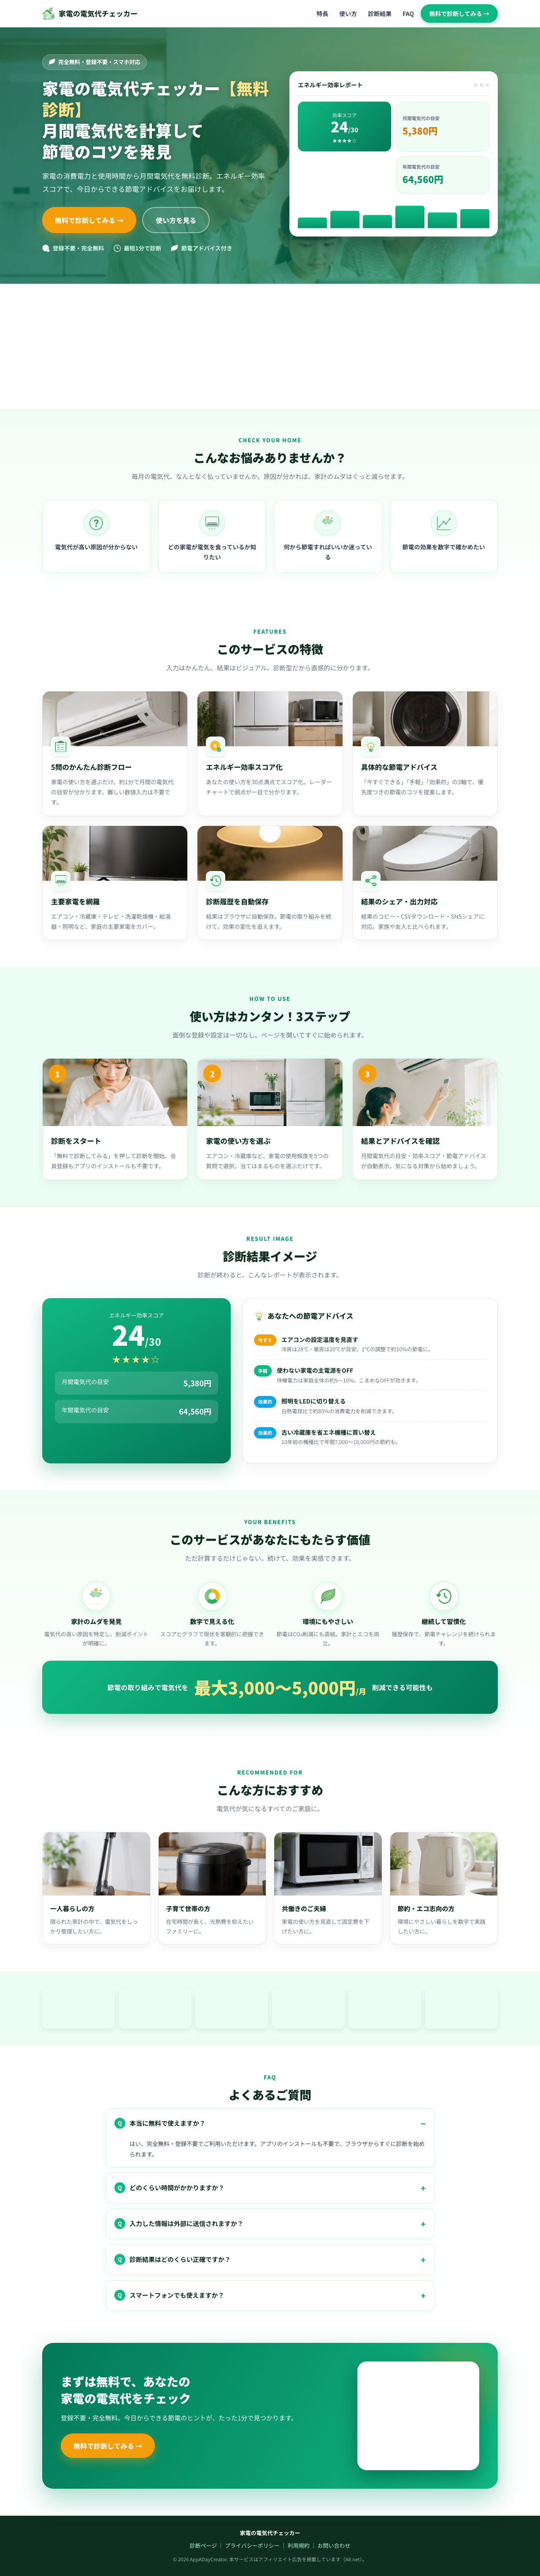
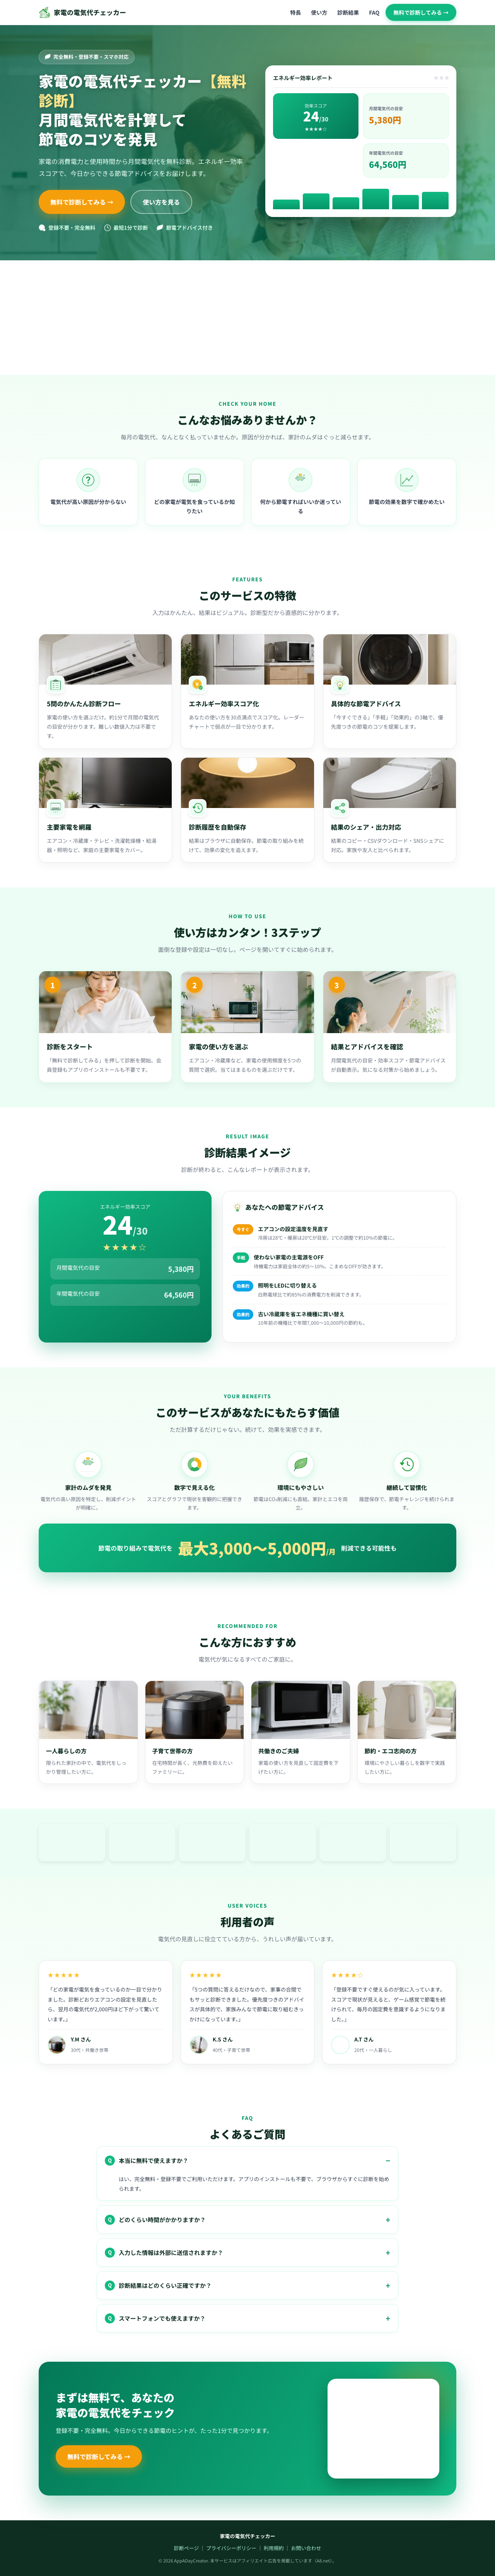
Rollback: step7 pass1 regressed (58->28)

diff --git a/index.html b/index.html
@@ -158,16 +158,6 @@ j=d.createElement(s),dl=l!="dataLayer"?"&l="+l:"";j.async=true;j.src=
         .art img{width:74px;height:60px;object-fit:cover;border-radius:8px;flex-shrink:0;}
         .art b{font-size:14px;color:var(--ink);display:block;margin-bottom:3px;}
         .art span{font-size:12px;color:var(--muted);}
-        /* voices / testimonials */
-        .voice-grid{display:grid;grid-template-columns:repeat(3,1fr);gap:20px;}
-        .voice{background:#fff;border:1px solid var(--line);border-radius:18px;padding:24px 22px;box-shadow:0 8px 24px rgba(0,0,0,.05);display:flex;flex-direction:column;gap:12px;}
-        .voice .stars{color:#fbbf24;font-size:15px;letter-spacing:2px;}
-        .voice .txt{font-size:13.5px;color:var(--text);line-height:1.9;flex:1;}
-        .voice .who{display:flex;align-items:center;gap:12px;border-top:1px dashed var(--line);padding-top:14px;}
-        .voice .who img{width:48px;height:48px;border-radius:50%;object-fit:cover;flex-shrink:0;border:2px solid var(--line2);}
-        .voice .who b{font-size:13.5px;color:var(--ink);display:block;}
-        .voice .who span{font-size:12px;color:var(--muted);}
-        @media(max-width:820px){.voice-grid{grid-template-columns:1fr;}}
         /* faq visual */
         details.q{background:#fff;border:1px solid var(--line2);border-radius:13px;margin-bottom:10px;padding:0 18px;}
         details.q summary{list-style:none;cursor:pointer;font-weight:700;color:var(--ink);font-size:14.5px;padding:16px 0;display:flex;align-items:center;gap:10px;}
@@ -427,32 +417,6 @@ j=d.createElement(s),dl=l!="dataLayer"?"&l="+l:"";j.async=true;j.src=
           </div>
         </div>
       </div>
-
-      <!-- ── 利用者の声 ── -->
-      <section class="block" id="voices">
-        <div class="wrap">
-          <span class="eyebrow">USER VOICES</span>
-          <h2 class="sec-title">利用者の声</h2>
-          <p class="sec-lead">電気代の見直しに役立てている方から、うれしい声が届いています。</p>
-          <div class="voice-grid">
-            <div class="voice">
-              <div class="stars" aria-label="5段階評価で5">★★★★★</div>
-              <p class="txt">「どの家電が電気を食っているのか一目で分かりました。診断どおりエアコンの設定を見直したら、翌月の電気代が2,000円ほど下がって驚いています。」</p>
-              <div class="who"><img src="assets/photos/photo_14.jpg" alt="利用者" loading="lazy"><div><b>Y.M さん</b><span>30代・共働き世帯</span></div></div>
-            </div>
-            <div class="voice">
-              <div class="stars" aria-label="5段階評価で5">★★★★★</div>
-              <p class="txt">「5つの質問に答えるだけなので、家事の合間でもサッと診断できました。優先度つきのアドバイスが具体的で、家族みんなで節電に取り組むきっかけになっています。」</p>
-              <div class="who"><img src="assets/photos/photo_13.jpg" alt="利用者" loading="lazy"><div><b>K.S さん</b><span>40代・子育て世帯</span></div></div>
-            </div>
-            <div class="voice">
-              <div class="stars" aria-label="5段階評価で4">★★★★☆</div>
-              <p class="txt">「登録不要ですぐ使えるのが気に入っています。スコアで現状が見えると、ゲーム感覚で節電を続けられて、毎月の固定費を意識するようになりました。」</p>
-              <div class="who"><img src="assets/photos/photo_06.jpg" alt="利用者" loading="lazy"><div><b>A.T さん</b><span>20代・一人暮らし</span></div></div>
-            </div>
-          </div>
-        </div>
-      </section>
 
       <!-- ── FAQ ── -->
       <section class="block bg-soft" id="faq">

diff --git a/lp/index.html b/lp/index.html
@@ -194,16 +194,6 @@ j=d.createElement(s),dl=l!="dataLayer"?"&l="+l:"";j.async=true;j.src=
             section{padding:48px 0;}
             .gallery{grid-template-columns:repeat(3,1fr);}
         }
-        /* voices / testimonials */
-        .voice-grid{display:grid;grid-template-columns:repeat(3,1fr);gap:20px;}
-        .voice{background:#fff;border:1px solid var(--line);border-radius:18px;padding:24px 22px;box-shadow:0 8px 24px rgba(0,0,0,.05);display:flex;flex-direction:column;gap:12px;}
-        .voice .stars{color:#fbbf24;font-size:15px;letter-spacing:2px;}
-        .voice .txt{font-size:13.5px;color:var(--text);line-height:1.9;flex:1;}
-        .voice .who{display:flex;align-items:center;gap:12px;border-top:1px dashed var(--line);padding-top:14px;}
-        .voice .who img{width:48px;height:48px;border-radius:50%;object-fit:cover;flex-shrink:0;border:2px solid var(--line2);}
-        .voice .who b{font-size:13.5px;color:var(--ink);display:block;}
-        .voice .who span{font-size:12px;color:var(--muted);}
-        @media(max-width:860px){.voice-grid{grid-template-columns:1fr;}}
         footer{background:#0f2e22;color:#cdeadd;text-align:center;padding:30px 20px;font-size:13px;}
         footer a{color:#a7f3d0;text-decoration:none;}
         .ad-slot{margin:8px auto;max-width:1120px;padding:0 20px;}
@@ -376,32 +366,6 @@ j=d.createElement(s),dl=l!="dataLayer"?"&l="+l:"";j.async=true;j.src=
                 <img src="../assets/photos/photo_20.jpg" alt="暮らしのシーン" loading="lazy">
                 <img src="../assets/photos/photo_21.jpg" alt="暮らしのシーン" loading="lazy">
                 <img src="../assets/photos/photo_22.jpg" alt="暮らしのシーン" loading="lazy">
-            </div>
-        </div>
-    </section>
-
-    <!-- ── 利用者の声 ── -->
-    <section class="bg-soft">
-        <div class="wrap">
-            <span class="eyebrow">USER VOICES</span>
-            <h2 class="sec-title">利用者の声</h2>
-            <p class="sec-lead">電気代の見直しに役立てている方から、うれしい声が届いています。</p>
-            <div class="voice-grid">
-                <div class="voice">
-                    <div class="stars" aria-label="5段階評価で5">★★★★★</div>
-                    <p class="txt">「どの家電が電気を食っているのか一目で分かりました。診断どおりエアコンの設定を見直したら、翌月の電気代が2,000円ほど下がって驚いています。」</p>
-                    <div class="who"><img src="../assets/photos/photo_14.jpg" alt="利用者" loading="lazy"><div><b>Y.M さん</b><span>30代・共働き世帯</span></div></div>
-                </div>
-                <div class="voice">
-                    <div class="stars" aria-label="5段階評価で5">★★★★★</div>
-                    <p class="txt">「5つの質問に答えるだけなので、家事の合間でもサッと診断できました。優先度つきのアドバイスが具体的で、家族みんなで節電に取り組むきっかけになっています。」</p>
-                    <div class="who"><img src="../assets/photos/photo_13.jpg" alt="利用者" loading="lazy"><div><b>K.S さん</b><span>40代・子育て世帯</span></div></div>
-                </div>
-                <div class="voice">
-                    <div class="stars" aria-label="5段階評価で4">★★★★☆</div>
-                    <p class="txt">「登録不要ですぐ使えるのが気に入っています。スコアで現状が見えると、ゲーム感覚で節電を続けられて、毎月の固定費を意識するようになりました。」</p>
-                    <div class="who"><img src="../assets/photos/photo_06.jpg" alt="利用者" loading="lazy"><div><b>A.T さん</b><span>20代・一人暮らし</span></div></div>
-                </div>
             </div>
         </div>
     </section>